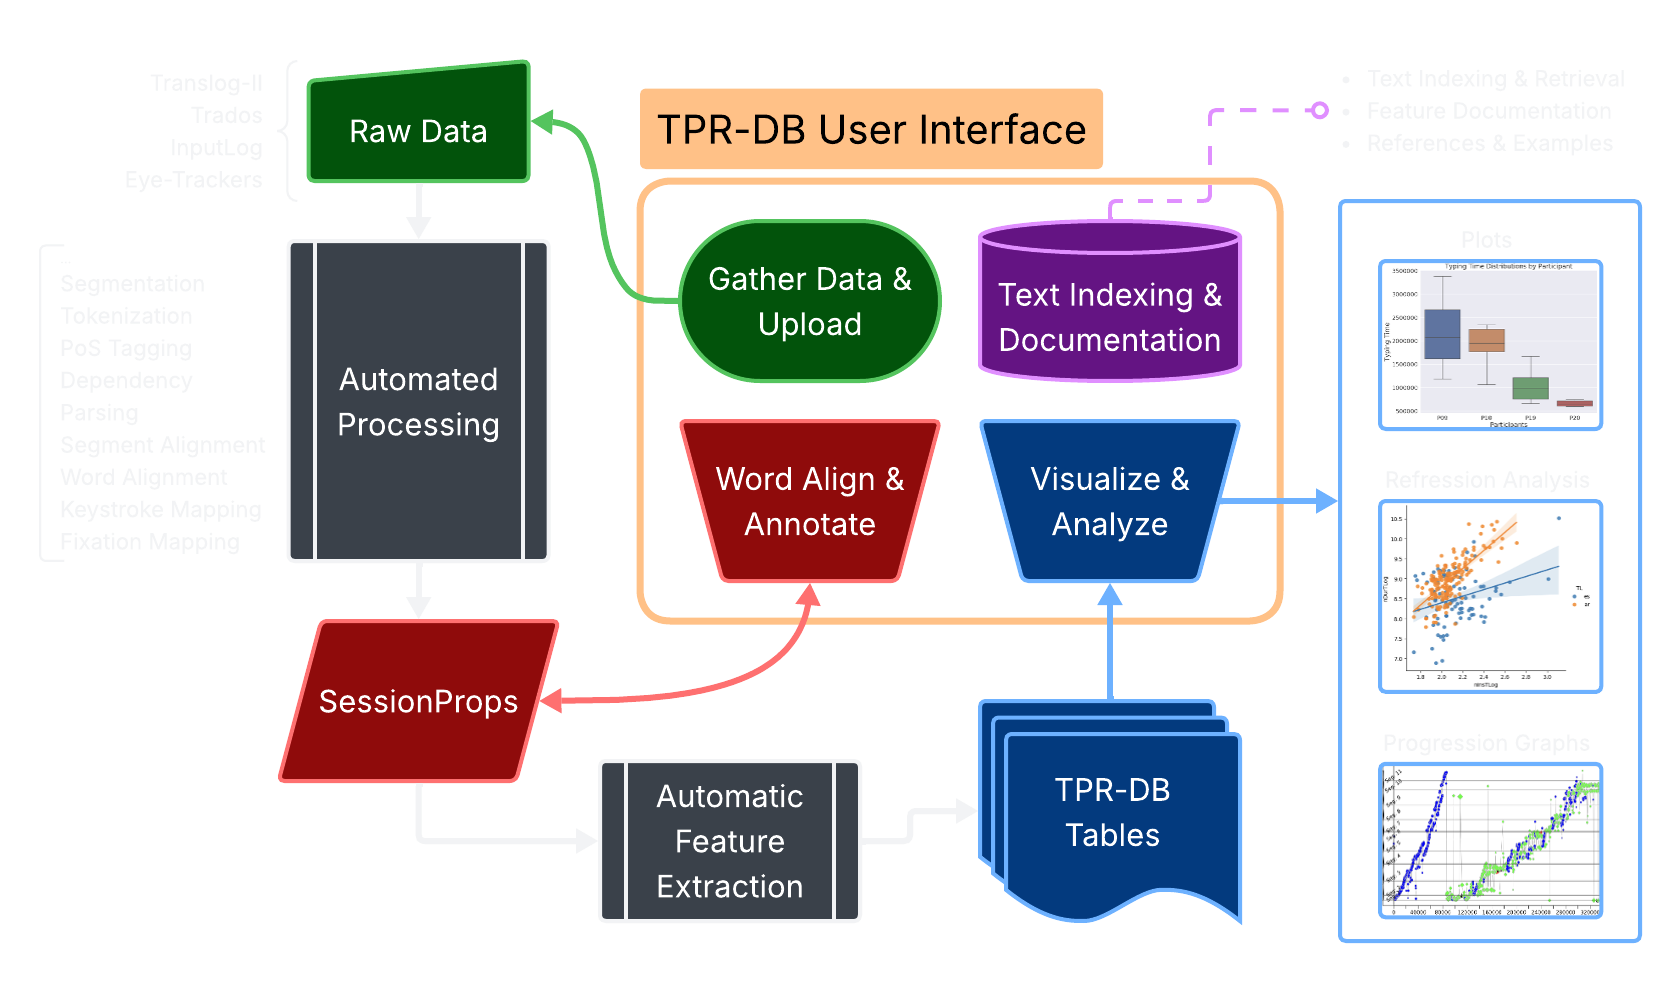
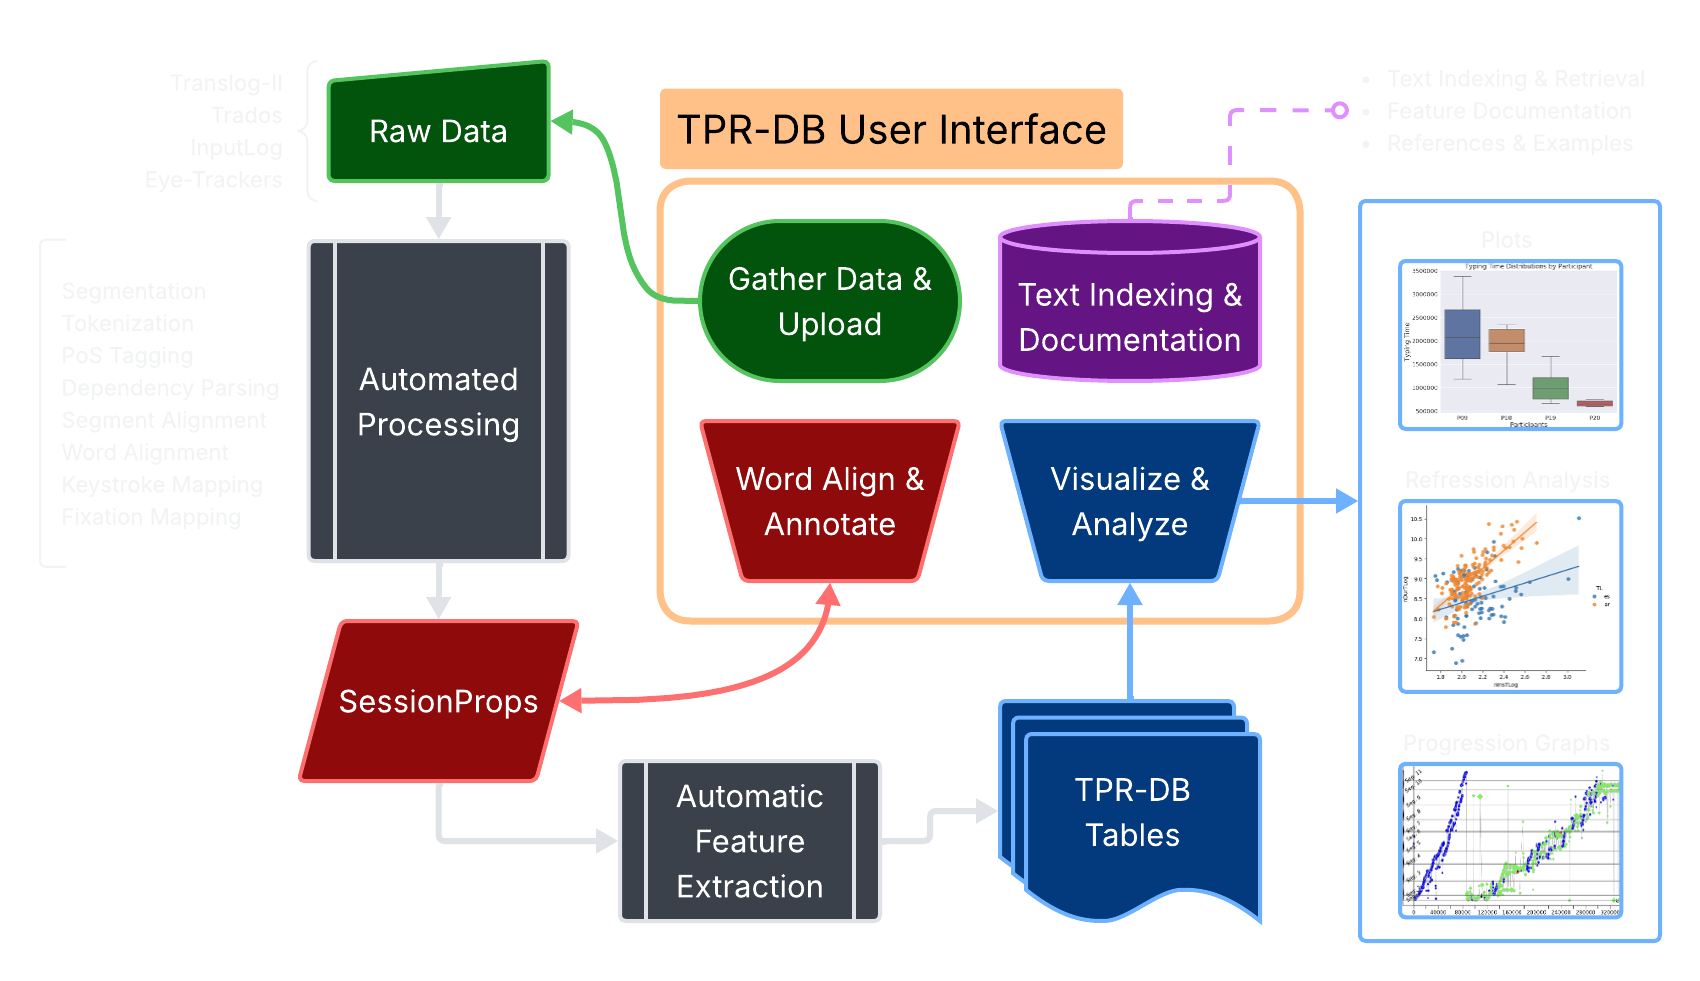
Updated documentation landing page and Study Design sections (more rich examples, added abbr tooltips, refined light-dark diagram, added more text to explain TPR-DB diagram and purpose, and defined session, participant, and modality)

diff --git a/docs/index.md b/docs/index.md
@@ -16,20 +16,55 @@ The Center for Research and Innovation in Translation and Translation Technology
 
 The Translation Process Research Database (TPR-DB) is a tool for organizing and processing key-logging and gaze-fixation data so that it can be easily analyzed in powerful and flexible ways.
 
+!!! question "Yeah, but what is it?"
+
+    The TPR-DB has three concrete resources that help you analyze your translation process data:
+    
+    - The **TPR-DB web app** to upload and process your data &#129302;
+    - **Utility libraries** (Python and R) to help you analyze the data &#129299;
+    - **Documentation** (you’re looking at it &#128521;) to help you along the way
+
 <figure markdown="span">
   ![TPR-DB 3.0 Diagram](assets/images/diagram_tprdb_v3_light.png#only-light){ width="800" }
   ![TPR-DB 3.0 Diagram](assets/images/diagram_tprdb_v3_dark.png#only-dark){ width="800" }
   <figcaption>CRITT TPR-DB Flowchart</figcaption>
 </figure>
 
+### TPR-DB Workflow
+
+!!! tip inline start "The Goal"
+    starting point = **gather** data
+
+    end goal = **analyze** data
+
+1. **Gather** key-logging data with Translog-II or Trados Qualitivity and/or gaze data with an eye tracker
+2. **Upload** the raw data to the TPR-DB
+    1. The TPR-DB will **automatically process** the raw data:
+        1. **Segment** the texts
+        2. **Tokenize** the texts
+        3. **PoS** tag the tokens
+        4. Parse **syntactic dependencies**
+        5. **Align** source and target **segments**
+        6. (*optional*) Automatically **align** source and target **words**
+        7. **Map keystrokes** to words
+        8. **Map fixations** to words
+    2. The end result of this process are **SessionProps** XML files
+3. Manually **align** words and **annotate** alignment groups
+4. The TPR-DB will **automatically extract features** to create **TPR-DB data tables**
+5. Use the features in the tables to **visualize** and **analyze** your data &#129299;
+
 ## History
 
-The CRITT TPR-DB project started around 2010 with the data from a number of translation process studies that were recorded in Translog[^1] and integrated into a database under a common format. The TPR-DB was first a part of the Danish Dependency Treebanks Project at the Copenhagen Business School[^2] and then became a project on its own. Right from the beginning the idea was not only to provide a data repository for translation process research, but also to provide a toolkit for the analysis and visualization of the data. The TPR-DB toolkit started out with a number of functions in R to access and analyse the TPR-DB data, and subsequently developed into a browser-based toolkit with Jupyter interface and a Python library.
+The CRITT TPR-DB project started around 2010 with the data from a number of translation process studies that were recorded in Translog[^1] and integrated into a database under a common format. The TPR-DB was first a part of the Danish Dependency Treebanks Project at the Copenhagen Business School[^2] and then became a project on its own. Right from the beginning the idea was not only to provide a data repository for TPR, but also to provide a toolkit for analyzing and visualizing the data. The TPR-DB toolkit started out with a number of functions in R to access and analyse the TPR-DB data, and subsequently developed into a browser-based toolkit with a Jupyter interface and a Python library.
 
-The first public documentation of the CRITT TPR-DB 1.0 appeared in 2012 ([Carl 2012](https://aclanthology.org/2012.amta-wptp.1.pdf)), when Translog-II was amended to record non-European languages (Chinese, Hindi, Japanese, among others). Adding a web-interface and further toolkit functionalities resulted in the TPR-DB 2.0 some of which is documented in a Springer volume on New Directions in Empirical Translation Process Research ([Carl et al. 2015](https://drive.google.com/file/d/1FgOSNcpbjlxdo6MM_jf3Pw5wDS6S9-BB/view)). Another Springer volume appeared in 2021, Explorations in Empirical Translation Process Research ([Carl 2021](https://drive.google.com/file/d/14arSD4l4vWtd1Gqkdiju_9UZiXmTo2n_/view)), when the TPR-DB was based at Kent State University. 
+The first public documentation of the CRITT TPR-DB 1.0 appeared in 2012 ([Carl 2012](https://aclanthology.org/2012.amta-wptp.1.pdf)), when Translog-II was amended to record non-European languages (Chinese, Hindi, Japanese, among others). Adding a web-interface and further toolkit functionalities resulted in the TPR-DB 2.0 some of which is documented in a Springer volume, New Directions in Empirical Translation Process Research ([Carl et al. 2015](https://drive.google.com/file/d/1FgOSNcpbjlxdo6MM_jf3Pw5wDS6S9-BB/view)). Another Springer volume appeared in 2021, Explorations in Empirical Translation Process Research ([Carl 2021](https://drive.google.com/file/d/14arSD4l4vWtd1Gqkdiju_9UZiXmTo2n_/view)), when the TPR-DB was based at Kent State University. 
 
 In 2026, TPR-DB processing chain was migrated from Perl to Python and was given a new user interface.
 
 [^1]:  [CRITT website: Translog-II](https://sites.google.com/site/centretranslationinnovation/translog-ii)
 
 [^2]:  [The Copenhagen Dependency Treebanks](https://mbkromann.github.io/copenhagen-dependency-treebank/)
+
+*[PoS]: part of speech
+*[TPR]: translation process research
+*[TPR-DB]: Translation Process Research Database

diff --git a/docs/design/studies-sessions.md b/docs/design/studies-sessions.md
@@ -6,11 +6,28 @@ icon: lucide/brain
 
 While there is a fair amount of flexibility in how you set up a study for the TPR-DB, there are some important constraints:
 
-- studies must be organized in **sessions**
-- each **session** should have
+- Studies must be organized in **sessions**
+- Each **session** should have
     - a single **participant**
     - a single **modality**
+    - a single **source** and **target language**
 
 ## Sessions
 
-A session is a single text-production event by a participant in a certain modality. 
+A **session** is a single occurrence where a participant (human or machine) produces/reads a text along the lines of a certain modality.
+
+!!! example "Translation **Session**"
+
+    A simple example is a professional translator reading and translating a text with Translog-II while their keystrokes are being logged and their gaze is being monitored with an eye tracker.
+
+!!! example "Post-Editing **Session**"
+
+    Another simple example is a bilingual post-editing a text with Trados Studio while their keystrokes are being logged with the Qualitivity plugin.
+
+## Participants
+
+A **participant** either needs to produce text, read text, or both. A **participant** can be a human (professional translator, researcher, student, bilignual, etc.) or a machine (neural machine translation model, large language model, agent, etc.).
+
+## Modalities
+
+While there are some common **modalities** that are often used in translation process research (translation, post-editing, monolingual editing, simultaneous interpreting, sight translation, etc.), any activity or task that involves reading and/or producing a text can be a **modality**. Researchers have the flexibility of defining their sessions according to pre-determined, common modalities (these are described in [File Naming](file-naming.md)) or describing custom modalities.